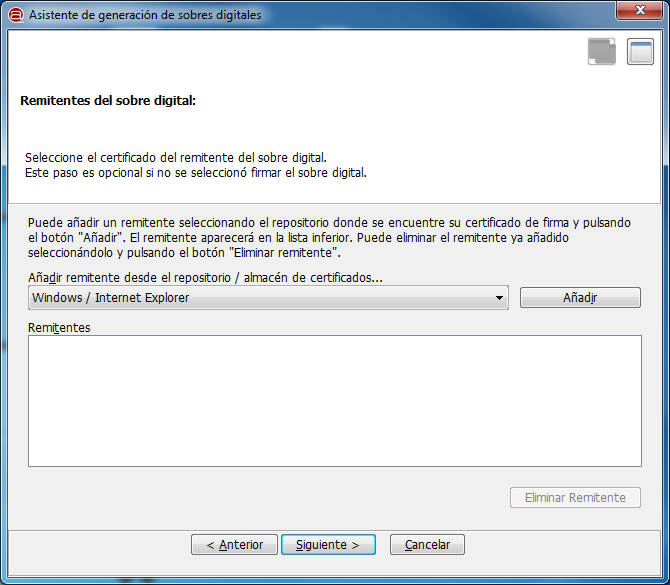
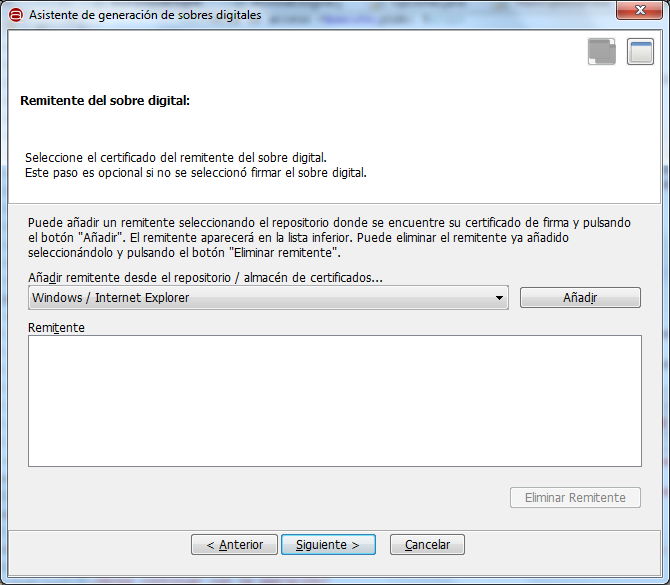
Se actualiza la página para agregar remitentes a los sobres y su captura.
git-svn-id: http://svn-ctt.administracionelectronica.gob.es/svn/clienteafirma/projects/afirma/trunk@3281 dcdbb401-323c-49cf-88a0-803402807c85

Changed region(s): [[0.0, 0.0, 1.0, 1.0], [0.1194, 0.1538, 0.2985, 0.1846]]

diff --git a/afirma-ui-standalone-help-es_ES/src/main/resources/help/html/es_ES/ensobrado.html b/afirma-ui-standalone-help-es_ES/src/main/resources/help/html/es_ES/ensobrado.html
@@ -6,7 +6,7 @@
 <h2><a name="_Toc275937516">Ensobrado digital</a></h2>
 
 <p>Desde la opci&oacute;n de <i>"Ensobrado"</i> es posible generar sobres digitales para la transferencia de datos segura con 
-otras personas.</p><!--  o a&ntilde;adir nuevos remitentes a un sobre ya generado.</p> -->
+otras personas.</p>
 
 <p>Esta opci&oacute;n s&oacute;lo est&aacute; disponible en el modo de vista avanzada.</p>
 
@@ -111,7 +111,7 @@ sus certificados.</p>
 </ul>
 
 <p>Es obligatorio seleccionar al menos un destinatario para el sobre digital. Al pulsar el bot&oacute;n "Siguiente &gt;" nos aparecer&aacute; la ventana 
-para la selecci&oacute;n del remitente del sobre. En esta pantalla podemos seleccionar nuestro certificado para identificarnos como remitentes 
+para la selecci&oacute;n del remitente del sobre. En esta pantalla podemos seleccionar nuestro certificado para identificarnos como remitente 
 del sobre. Este paso es opcional en la generaci&oacute;n de Sobres Simples y obligatorio en los Sobres Firmados o Autenticados.</p>
 
 <p><b>En este paso, s&iacute; es posible utilizar el DNIe.</b></p>
@@ -137,11 +137,11 @@ del sobre. Este paso es opcional en la generaci&oacute;n de Sobres Simples y obl
 	<li>A&ntilde;adir</li>
 	<ul type="circle">
 		<li>Abre un di&aacute;logo para la selecci&oacute;n de un certificado del almac&eacute;n seleccionado. Si el almac&eacute;n est&aacute; protegido con contrase&ntilde;a 
-		ser&aacute; necesario introducirla. Al seleccionar un certificado, este se agrega al listado de remitentes. Actualmente la Interfaz 
+		ser&aacute; necesario introducirla. Al seleccionar un certificado, este se agrega como el nuevo remitente del sobre. Actualmente la Interfaz 
 		de Escritorio del Cliente @firma s&oacute;lo soporta la configuraci&oacute;n de un remitente para el sobre electr&oacute;nico.</li>
 		<li>Tecla de acceso r&aacute;pido: r</li>
 	</ul><br/>
-	<li>Remitentes.</li>
+	<li>Remitente</li>
 	<ul type="circle">
 		<li>Muestra la lista de remitentes. Permite seleccionar elementos para ser eliminados.</li>
 		<li>Tecla de acceso r&aacute;pido: t</li>
